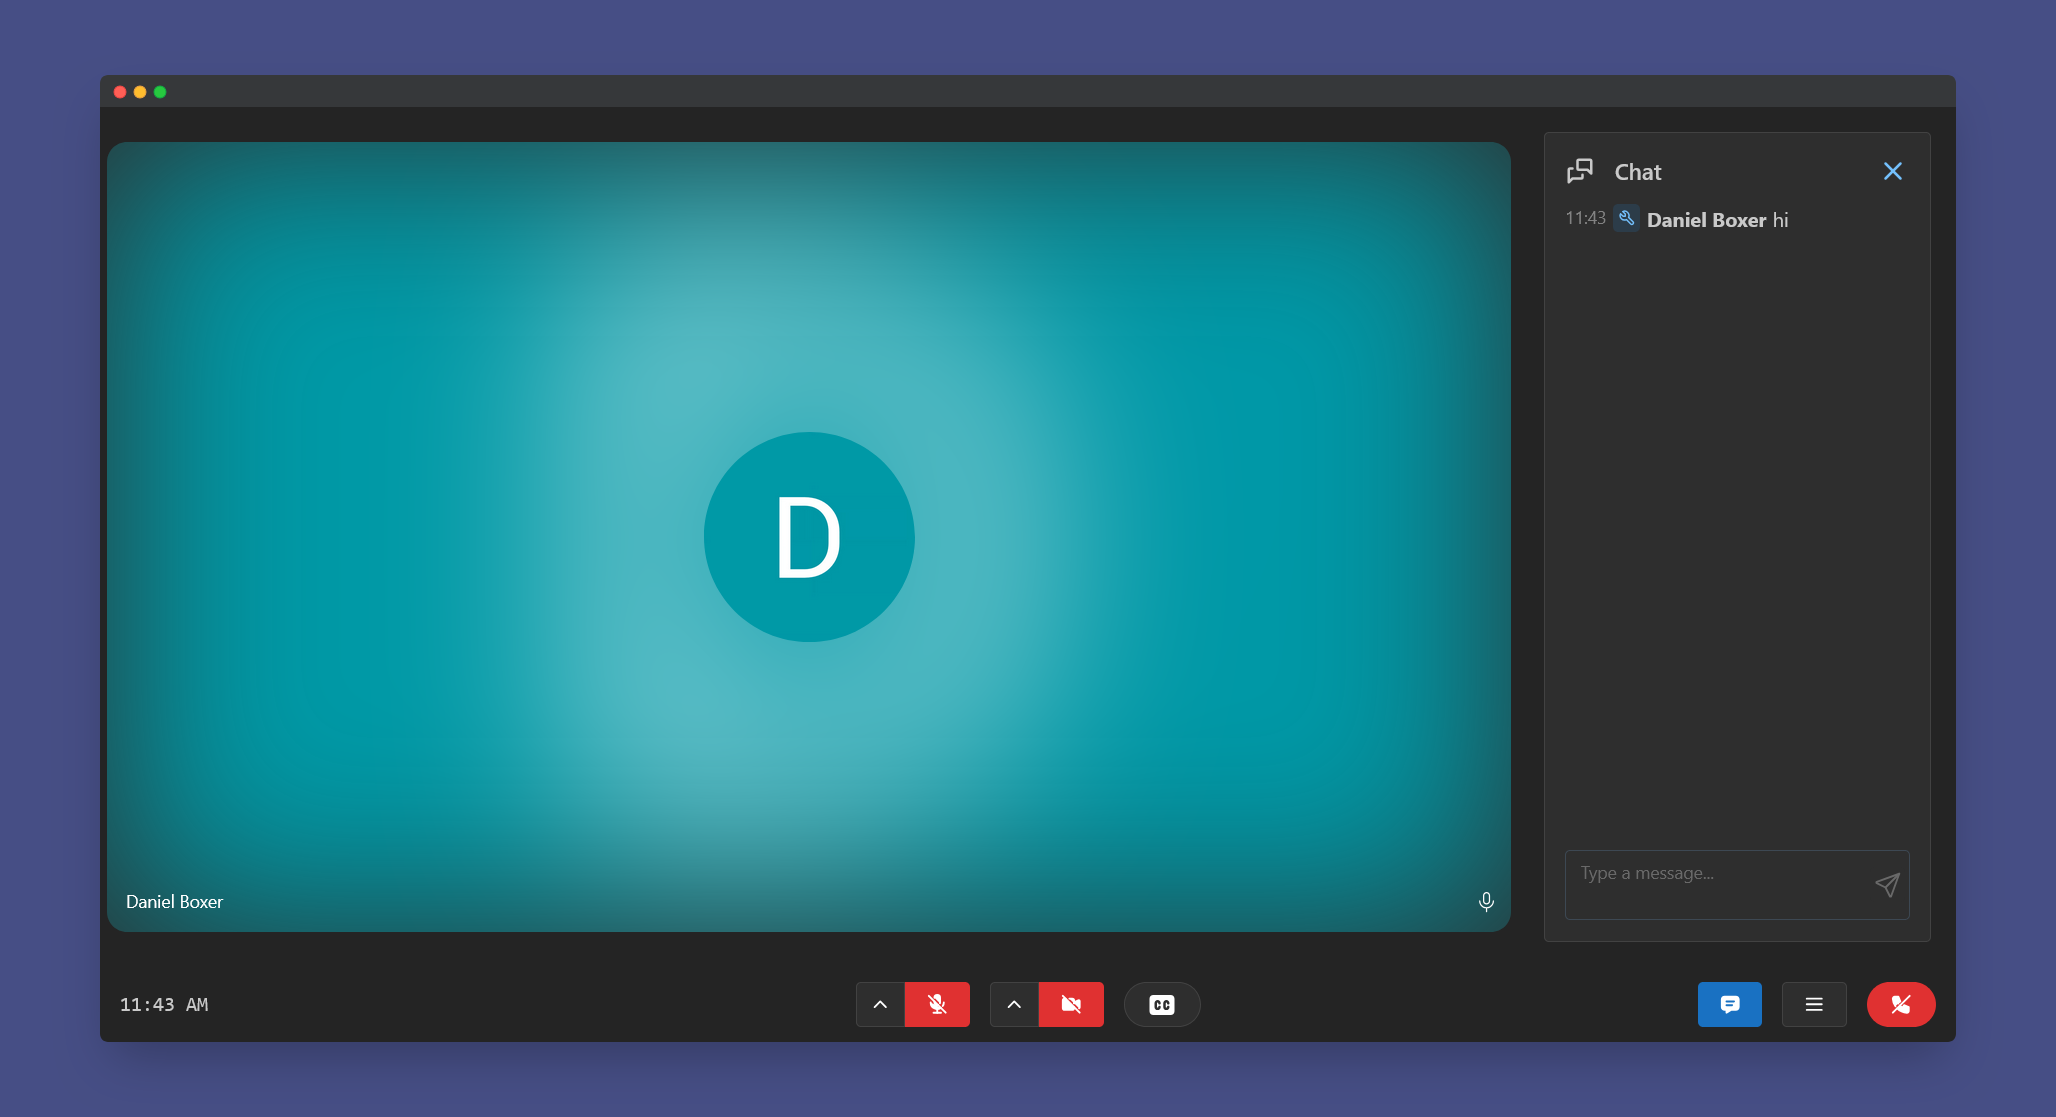
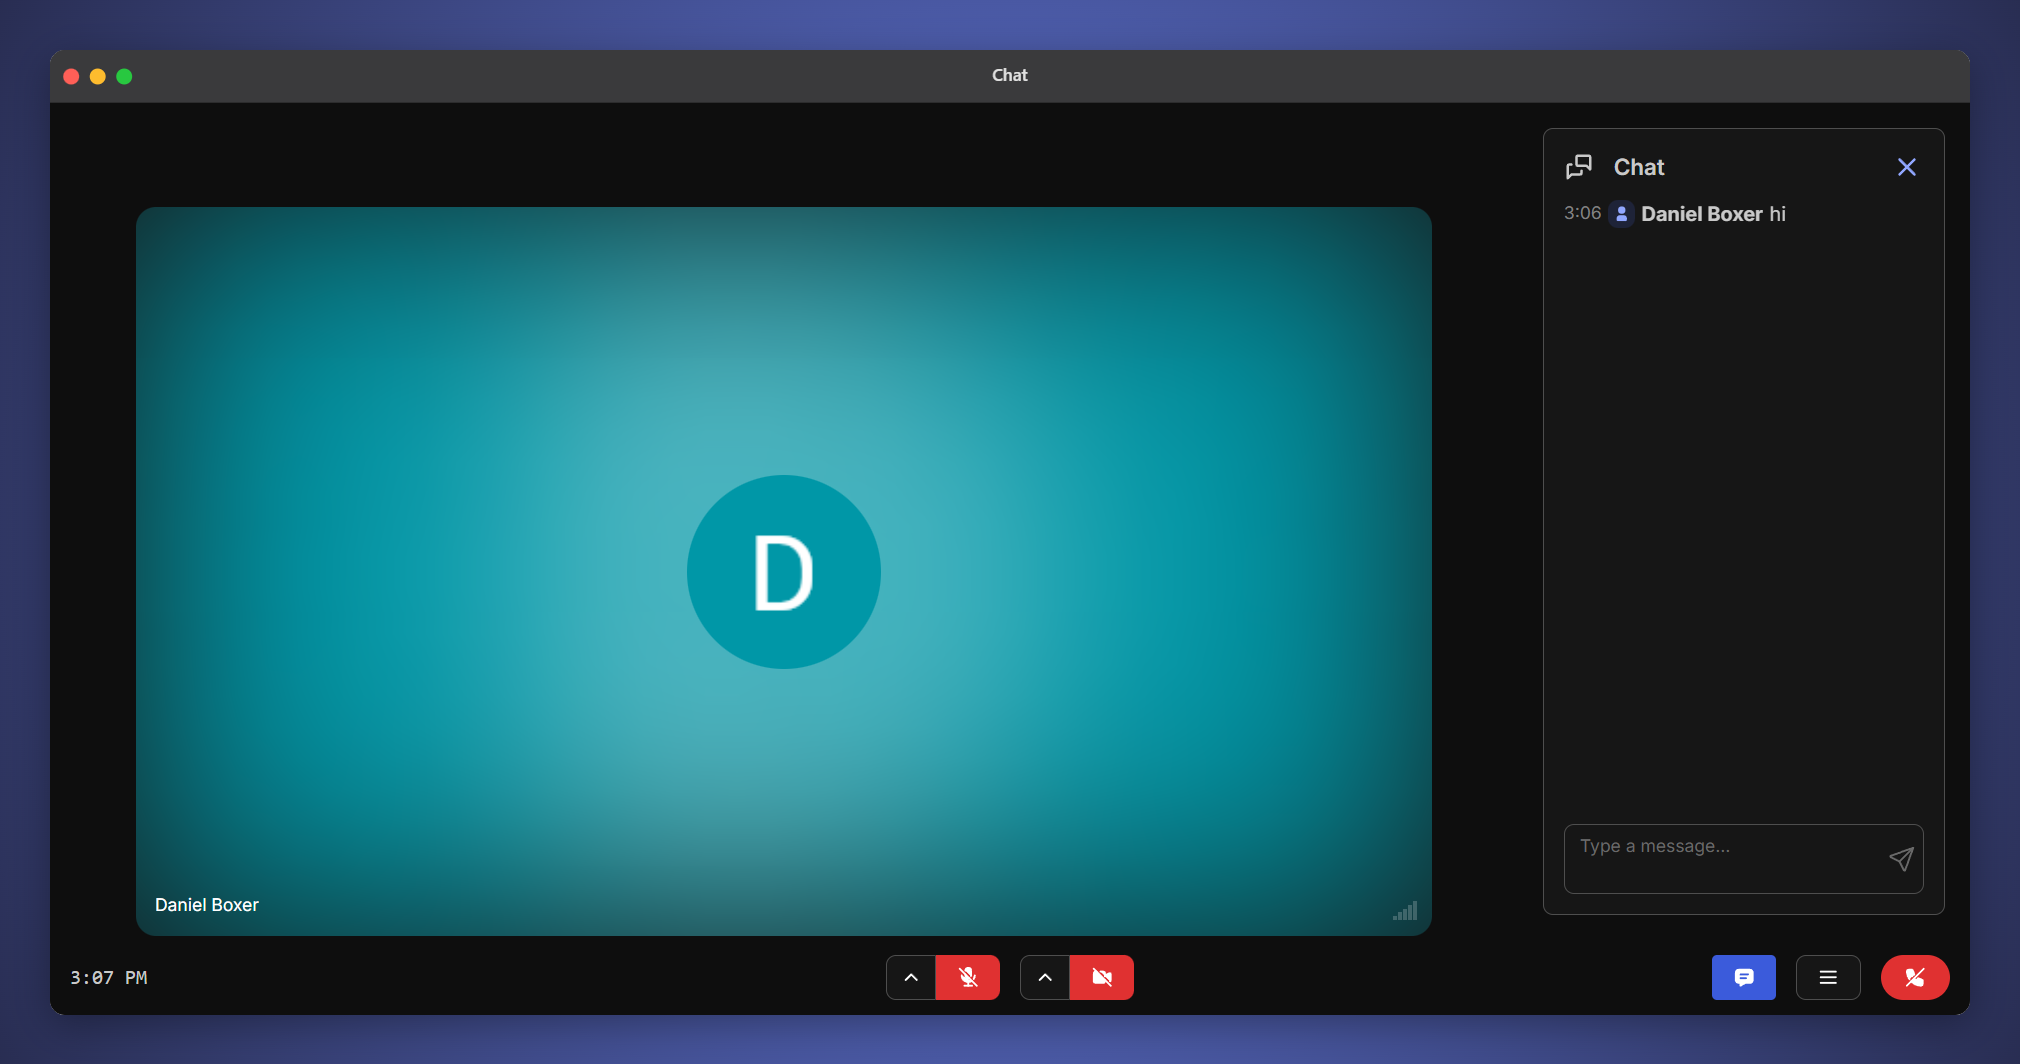
docs: update app screenshots

diff --git a/img/screenshots.md b/img/screenshots.md
@@ -1,18 +1,32 @@
 ## Dashboard
 
+The dashboard shows your scheduled interviews and allows you to start an interview.
+
 ![Dashboard](dashboard.png)
 
 <br>
 
 ## Interview room
 
-![Interview room](room.png)
+The interview room is like a video call. Above the video you can see some AI hints. This was generated in response to the question "What are your strengths".
+
+![Interview room](interview-room.png)
 
 <br>
 
-## Prejoin
+## Pre-join
 
-![Prejoin](prejoin.png)
+The Pre-join room allows you to check your media devices before joining the interview.
+
+![Pre-join](pre-join.png)
+
+<br>
+
+## Admin dashboard
+
+The admin dashboard allows admins to view interview data and to schedule interviews between users.
+
+![Admin](admin.png)
 
 <br>
 
@@ -24,6 +38,22 @@
 
 ## Schedule interview
 
-![Schedule interview](schedule.png)
+You can invite people to an interview and send them a Google Calendar invite. They will also see the interview in their dashboard.
+
+![Schedule interview](schedule-interview.png)
+
+<br>
+
+## Sign-in
+
+![Sign-in](sign-in.png)
+
+<br>
+
+## Desktop app
+
+The Electron desktop app allows you to connect a Tobii eyetracker so you can get eytracking feedback.
+
+![Desktop app](desktop-app.png)
 
 <br>

diff --git a/README.md b/README.md
@@ -28,7 +28,7 @@ WebMoti-Employ is an app that uses eyetracking to deliver real-time feedback dur
 
 ![Dashboard](img/dashboard.png)
 
-![Interview room](img/room.png)
+![Interview room](img/interview-room.png)
 
 [See more app screenshots here](img/screenshots.md)
 
@@ -79,6 +79,14 @@ Hosting:
 ## Real-time feedback pipeline
 
 Real-time feedback is done using eye tracking and AI analysis.
+
+Our system provides 4 distinct feedback notifications:
+
+- Eyetracking: If the candidate is not looking at the interviewer for a while, we progressively blur the video background to shift focus back to the interviewer. There is also a text notification.
+- Question hints: Two short AI generated hints to help answer the current question. Both the candidate and interviewer will see these hints.
+- Off topic feedback: If the candidate goes off topic, we show a text notification to remind them.
+- Stopwatch: When a question is asked, a stopwatch starts counting up to show how much time has passed for the current question.
+
 
 ### Eyetracking
 
